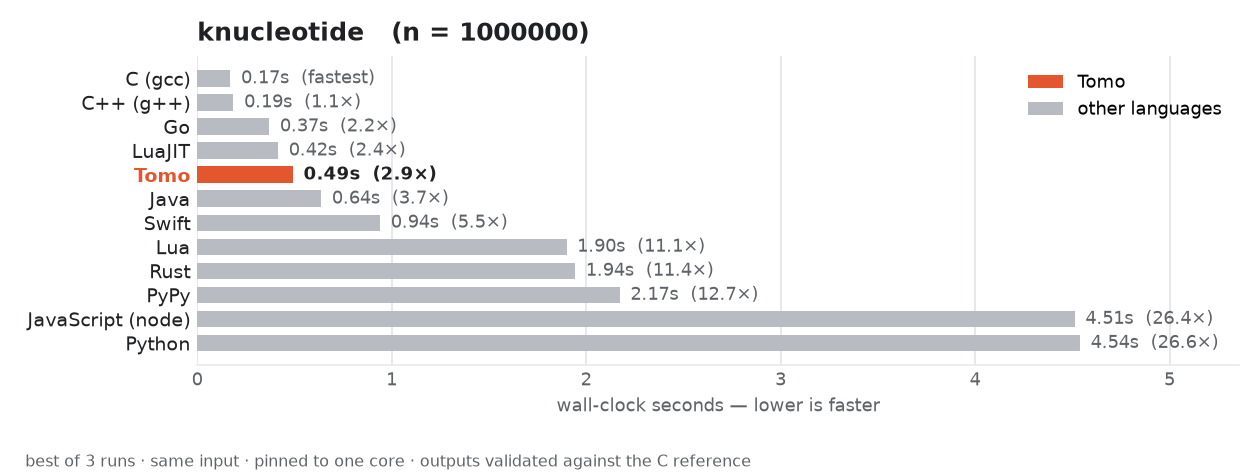
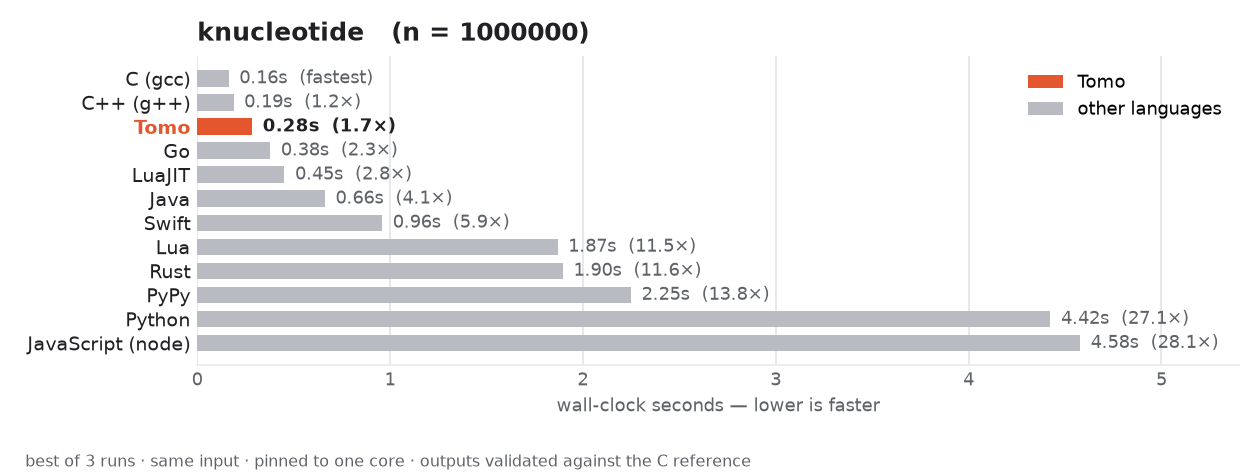
Use a default-valued counts table in k-nucleotide (0.49s -> 0.29s)
Replace `counts[key] = (counts[key] or 0) + 1` with a default-valued table
(`counts : &{Int64:Int64; default=Int64(0)} = &{}`) and `counts[key] += 1`.
The update-assignment on a default table compiles to a single get-or-insert
slot plus an in-place increment, instead of a separate lookup and store — so it
drops the explicit `Table$get_raw` (23% of runtime in the profile) and the
optional `or` branch. k-nucleotide goes 0.49s -> 0.29s, now 3rd behind only C
and C++. Cleaner and faster; still validates byte-for-byte against C.

diff --git a/benchmarks/README.md b/benchmarks/README.md
@@ -22,9 +22,9 @@ inside the compiled-language cluster and beats every scripting language on every
 benchmark**. On the tight compute loops it lands in the middle of that cluster:
 **fannkuch-redux** puts it at 0.18s, within 1.8× of the fastest and jostling
 with C, Java, and C++; **n-body** at 0.27s is ~1.9× the leaders (Zig/Rust), just
-ahead of Go and Java. On the hash-table-heavy **k-nucleotide** it's a strong
-0.49s — top-half of the field, ahead of Java, Rust, and all the scripting
-languages, with only C, C++, Go, and a warmed-up LuaJIT faster. **binary-trees**
+ahead of Go and Java. On the hash-table-heavy **k-nucleotide** it takes 3rd at
+0.29s — behind only C and C++, and ahead of Go, LuaJIT, Java, Rust, and every
+scripting language. **binary-trees**
 (an allocation/GC stress test) has it at 0.31s, mid-pack and ahead of Go and
 every scripting language. **fasta** is Tomo's softest benchmark but no longer an
 outlier — at 0.37s it's ~1.6× C (in line with n-body), edging out Rust and Java
